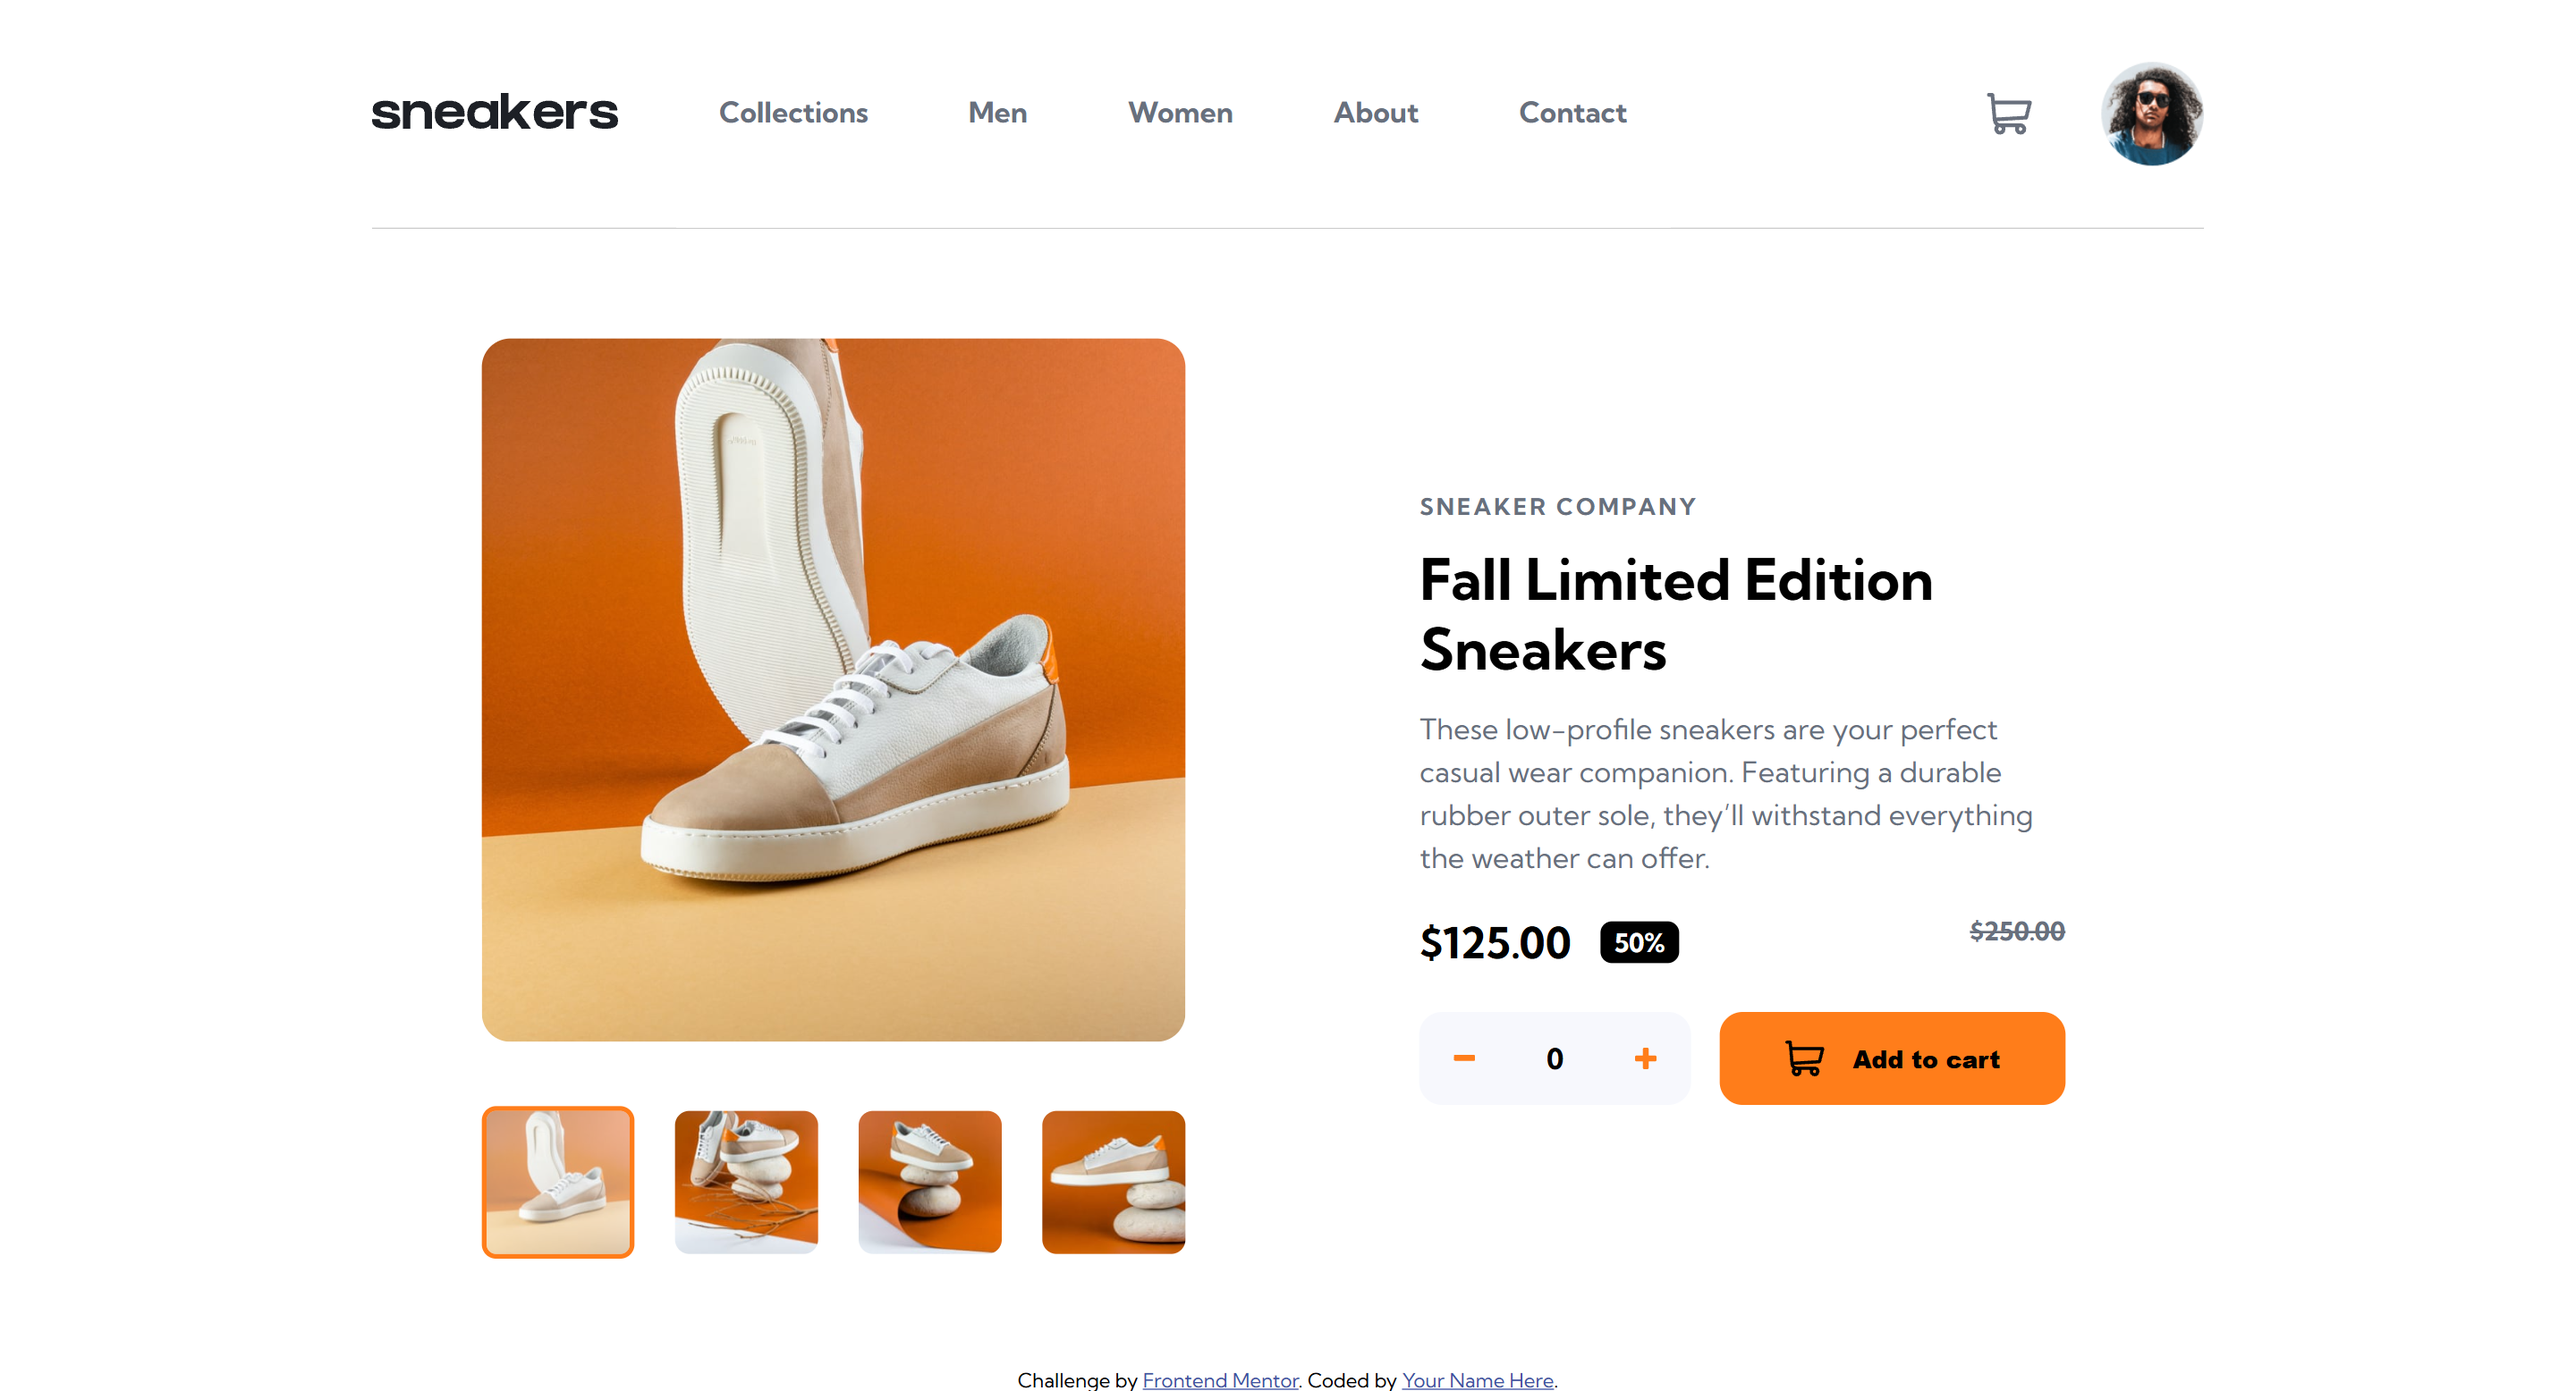
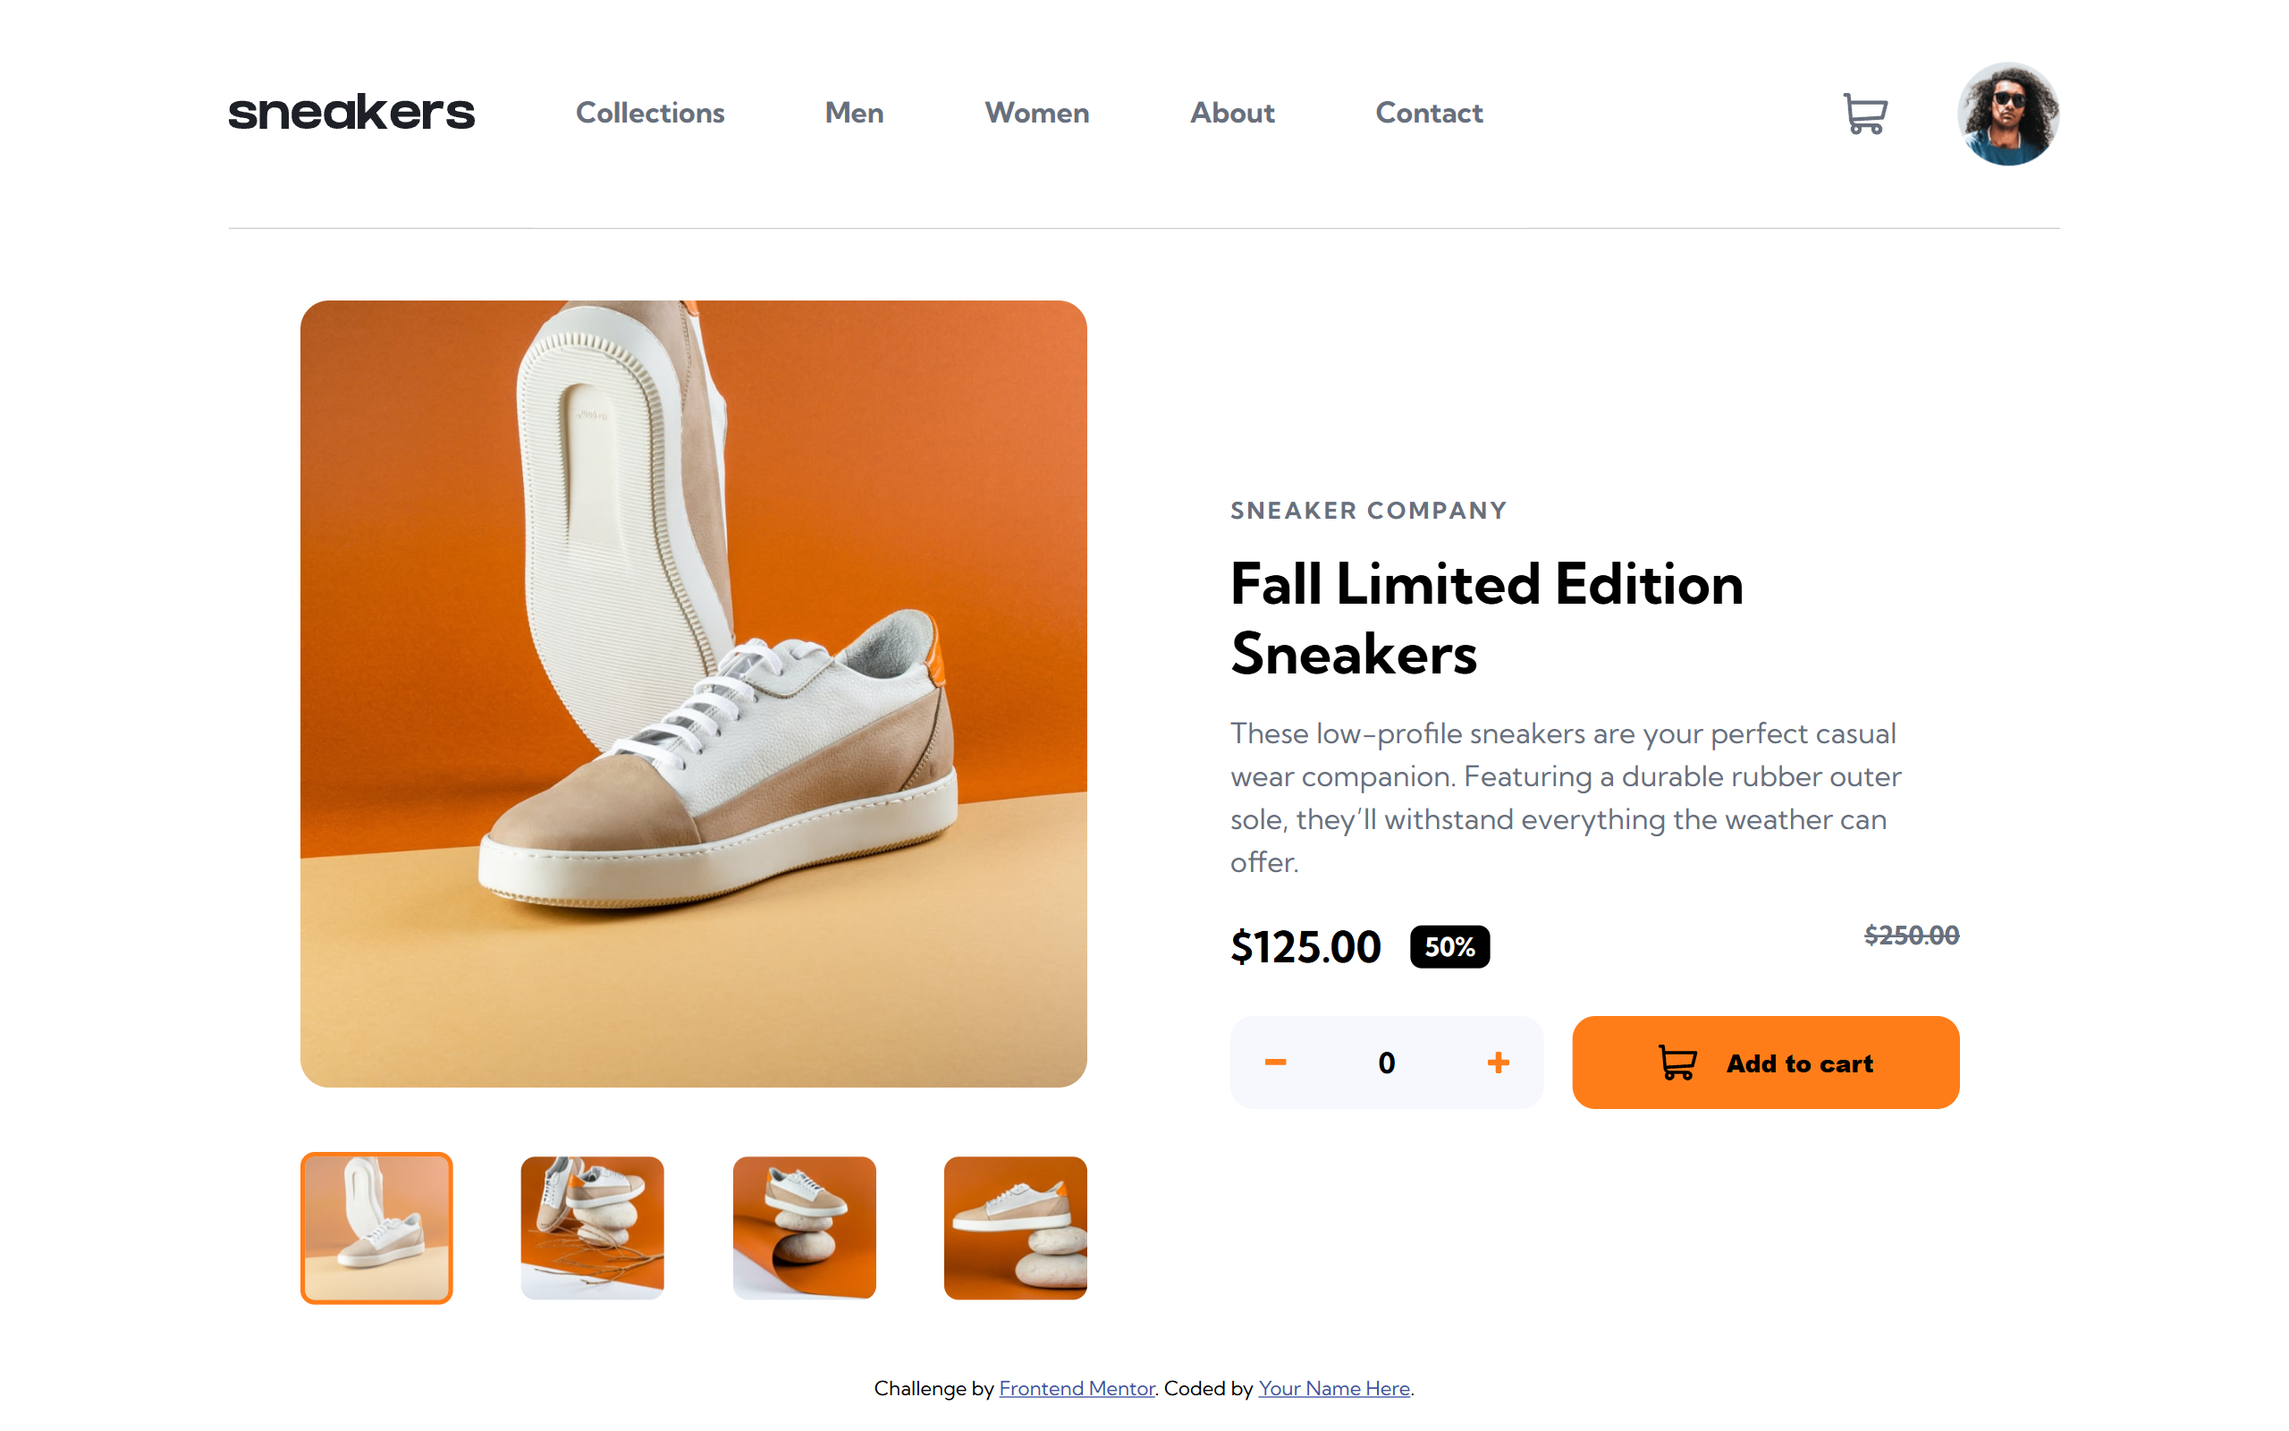
Update html, css, js, screenshot files

diff --git a/index.css b/index.css
@@ -7,7 +7,6 @@
 :root {
     /* ### Primary */
     --orange-color: hsl(26, 100%, 55%);
-    --orange-color: rgb(255, 125, 26);
     --pale-orange: hsl(25, 100%, 94%);
 
     /* ### Neutral */
@@ -16,8 +15,8 @@
     --grayish-blue: hsl(220, 14%, 75%);
     --light-grayish-blue: hsl(223, 64%, 98%);
     --white-color: hsl(0, 0%, 100%);
-    /* --Black-(with 75% opacity for lightbox background): hsl(0, 0%, 0%); */
     --black-color: hsl(0, 0%, 0%);
+    --overlay-bg: rgba(0, 0, 0, 0.5);
 }
 
 body {
@@ -62,7 +61,7 @@ header {
     bottom: 0;
     right: 0;
     z-index: 1001;
-    background-color: rgba(0, 0, 0, 0.5);
+    background-color: var(--overlay-bg);
     opacity: 0;
     visibility: hidden;
 }
@@ -307,20 +306,18 @@ button.checkout-btn {
     filter: brightness(0) saturate(100%) invert(55%) sepia(80%) saturate(2344%) hue-rotate(348deg) brightness(104%) contrast(101%);
 }
 
-.wrapper-slide .main-product, 
-.lightbox-slide .main-product{
+.main-product{
     cursor: pointer;
 }
 
-.wrapper-slide .main-product img, 
-.lightbox-slide .main-product img{
+.main-product img{
     width: 100%;
     object-fit: contain;
     object-position: center;
 }
 
-.wrapper-slide .slide-control,
-.lightbox-slide .lightbox-control {
+.slide-control,
+.lightbox-control {
     position: absolute;
     top: 50%;
     transform: translateY(-50%);
@@ -332,38 +329,38 @@ button.checkout-btn {
     border: none;
 }
 
-.wrapper-slide .slide-control {
+.slide-control {
     width: 2rem;
     height: 2rem;
 }
 
-.lightbox-slide .lightbox-control:hover img{
+.lightbox-control:hover img{
     filter: brightness(0) saturate(100%) invert(55%) sepia(80%) saturate(2344%) hue-rotate(348deg) brightness(104%) contrast(101%);
 }
 
-.lightbox-slide .lightbox-control {
+.lightbox-control {
     width: 3rem;
     height: 3rem;
 }
 
-.wrapper-slide .slide-control img {
+.slide-control img {
     width: 0.6rem;
     height: auto;
 }
 
-.wrapper-slide .slide-control.icon-prev {
+.slide-control.icon-prev {
     left: 1rem;
 }
 
-.lightbox-slide .lightbox-control.icon-prev {
+.lightbox-control.icon-prev {
     left: -1.5rem;
 }
 
-.wrapper-slide .slide-control.icon-next {
+.slide-control.icon-next {
     right: 1rem;
 }
 
-.lightbox-slide .lightbox-control.icon-next {
+.lightbox-control.icon-next {
     right: -1.5rem;
 }
 
@@ -381,8 +378,8 @@ button.checkout-btn {
     align-items: center;
 }
 
-.thumbnails .thumbnail-item,
-.lightbox-thumbnails .lightbox-thumbnail-item {
+.thumbnail-item,
+.lightbox-thumbnail-item {
     border-radius: 0.5rem;
     cursor: pointer;
     display: flex;
@@ -390,23 +387,23 @@ button.checkout-btn {
     background-color: white;
 }
 
-.thumbnails .thumbnail-item:hover,
-.lightbox-thumbnails .lightbox-thumbnail-item:hover {
+.thumbnail-item:hover,
+.lightbox-thumbnail-item:hover {
     opacity: 0.6;
 }
 
-.thumbnails .thumbnail-item.active img,
-.lightbox-thumbnails .lightbox-thumbnail-item.active img{
+.thumbnail-item.active img,
+.lightbox-thumbnail-item.active img{
     opacity: 0.6;
 }
 
-.thumbnails .thumbnail-item.active,
-.lightbox-thumbnails .lightbox-thumbnail-item.active {
+.thumbnail-item.active,
+.lightbox-thumbnail-item.active {
     border: 3px solid var(--orange-color);
 }
 
-.thumbnails .thumbnail-item img,
-.lightbox-thumbnails .lightbox-thumbnail-item img {
+.thumbnail-item img,
+.lightbox-thumbnail-item img {
     width: 4rem;
     height: auto;
 }
@@ -450,7 +447,7 @@ button.checkout-btn {
 }
 
 .new-price {
-    font-size: 1.5rem;
+    font-size: clamp(1.2rem, 2.5vw, 1.5rem);
     font-weight: 700;
 }
 
@@ -521,10 +518,6 @@ button.add-cart {
     display: none;
 }
 
-.show {
-    display: block;
-}
-
 .attribution { 
     font-size: 0.6875rem; text-align: center; 
 }
@@ -533,7 +526,7 @@ button.add-cart {
     color: hsl(228, 45%, 44%); 
 }
 
-@media (min-width: 1280px) {
+@media (min-width: 80rem) {
     .container {
         margin: auto;
         max-width: 64rem;
@@ -549,9 +542,9 @@ button.add-cart {
     .content {
         display: grid;
         grid-template-columns: 1fr 1fr;
-        gap: 8vw;
+        gap: clamp(2rem, 5vw, 8vw);
         align-items: center;
-        padding: 8vh;
+        padding: clamp(2rem, 5vh, 8vh);
     }
 
     .nav-content {
@@ -635,7 +628,7 @@ button.add-cart {
         display: block;
     }
     
-    .wrapper-slide .main-product img, .lightbox-slide .main-product img {
+    .main-product img {
         border-radius: 1rem;
     } 
 
@@ -647,12 +640,19 @@ button.add-cart {
         display: flex;
     }
 
-    .thumbnails .thumbnail-item img,
-    .lightbox-thumbnails .lightbox-thumbnail-item img {
+    .thumbnail-item img,
+    .lightbox-thumbnail-item img {
         width: 5rem;
     }
 
     .cart-content {
         grid-auto-flow: column;
     }
+}
+
+@media  (prefers-reduced-motion: reduce) {
+    .nav-section {
+        transition: unset;
+    }
+    
 }

diff --git a/index.html b/index.html
@@ -64,7 +64,7 @@
             Your cart is empty
           </div>
           <div class="wrapper-basket-item"></div>          
-          <button class="checkout-btn">Checkout</button>
+          <button type="button" class="checkout-btn">Checkout</button>
         </div>
       </div>
     </header>
@@ -72,13 +72,13 @@
       <div class="content">
         <div class="wrapper-picture">
           <div class="wrapper-slide">
-            <button class="slide-control icon-prev">
+            <button type="button" aria-label="Previous slide" class="slide-control icon-prev">
               <img src="./images/icon-previous.svg" alt="">
             </button>
             <div class="main-product">
               <img class="main-product-img" src="./images/image-product-1.jpg" alt="">
             </div>
-            <button class="slide-control icon-next">
+            <button type="button" aria-label="Next slide" class="slide-control icon-next">
               <img src="./images/icon-next.svg" alt="">
             </button>
           </div>
@@ -126,7 +126,7 @@
                 <span class="amount-result">0</span>
                 <div class="amount-cart-btn icon-plus"><img src="./images/icon-plus.svg" alt=""></div>
               </div>
-              <button class="add-cart">
+              <button type="button" class="add-cart">
                 <img src="./images/icon-cart.svg" alt="">
                 Add to cart
               </button>
@@ -136,38 +136,38 @@
       </div>
     </main>
   </div>
-          <div class="wrapper-lightbox">
-          <div class="lightbox-content">
-            <div class="lightbox-close-btn">
-              <img src="./images/icon-close.svg" alt="">
-            </div>
-            <div class="lightbox-slide">
-              <button class="lightbox-control icon-prev">
-                <img src="./images/icon-previous.svg" alt="">
-              </button>
-              <div class="lightbox-main-product main-product">
-                <img class="lightbox-main-product-img main-product-img" src="./images/image-product-1.jpg" alt="">
-              </div>
-              <button class="lightbox-control icon-next">
-                <img src="./images/icon-next.svg" alt="">
-              </button>
-            </div>
-            <div class="lightbox-thumbnails">
-              <div class="lightbox-thumbnail-item thumbnail-item active">
-                <img data-src="1" src="./images/image-product-1-thumbnail.jpg" alt="">
-              </div>
-              <div class="lightbox-thumbnail-item thumbnail-item">
-                <img data-src="2" src="./images/image-product-2-thumbnail.jpg" alt="">
-              </div>
-              <div class="lightbox-thumbnail-item thumbnail-item">
-                <img data-src="3" src="./images/image-product-3-thumbnail.jpg" alt="">
-              </div>
-              <div class="lightbox-thumbnail-item thumbnail-item">
-                <img data-src="4" src="./images/image-product-4-thumbnail.jpg" alt="">
-              </div>
-            </div>
-          </div>
+  <div class="wrapper-lightbox">
+    <div class="lightbox-content">
+      <div class="lightbox-close-btn">
+        <img src="./images/icon-close.svg" alt="">
+      </div>
+      <div class="lightbox-slide">
+        <button type="button" aria-label="Previous slide" class="lightbox-control icon-prev">
+          <img src="./images/icon-previous.svg" alt="">
+        </button>
+        <div class="lightbox-main-product main-product">
+          <img class="lightbox-main-product-img main-product-img" src="./images/image-product-1.jpg" alt="">
         </div>
+        <button type="button" aria-label="Next slide" class="lightbox-control icon-next">
+          <img src="./images/icon-next.svg" alt="">
+        </button>
+      </div>
+      <div class="lightbox-thumbnails">
+        <div class="lightbox-thumbnail-item thumbnail-item active">
+          <img data-src="1" src="./images/image-product-1-thumbnail.jpg" alt="">
+        </div>
+        <div class="lightbox-thumbnail-item thumbnail-item">
+          <img data-src="2" src="./images/image-product-2-thumbnail.jpg" alt="">
+        </div>
+        <div class="lightbox-thumbnail-item thumbnail-item">
+          <img data-src="3" src="./images/image-product-3-thumbnail.jpg" alt="">
+        </div>
+        <div class="lightbox-thumbnail-item thumbnail-item">
+          <img data-src="4" src="./images/image-product-4-thumbnail.jpg" alt="">
+        </div>
+      </div>
+    </div>
+  </div>
 
   <footer class="attribution">
     Challenge by <a href="https://www.frontendmentor.io?ref=challenge">Frontend Mentor</a>. 

diff --git a/index.js b/index.js
@@ -31,7 +31,7 @@ checkoutBtn.addEventListener('click', function () {
 addCartBtn.addEventListener('click', function () {
     const imgActive = document.querySelector('.thumbnail-item.active img');
     if (parseFloat(amountResult.innerHTML) >= 1) {
-        let basketItemData = {
+        const basketItemData = {
             indexItem: imgActive.getAttribute('data-src'),
             imageSrc: imgActive.getAttribute('src'),
             price: 125.00,
@@ -74,18 +74,18 @@ closeLightboxBtn.addEventListener('click', function () {
     wrapperLightbox.classList.remove('active')
 })
 
-minusBtn.addEventListener('click', function (e) {
+minusBtn.addEventListener('click', function () {
     decreaseNumberCart();
     amountResult.innerHTML = numberCart;
 })
 
-plusBtn.addEventListener('click', function (e) {
+plusBtn.addEventListener('click', function () {
     increaseNumberCart();
     amountResult.innerHTML = numberCart;
 })
 
 prevBtns.forEach(prev => {
-    prev.addEventListener('click', function (e) {
+    prev.addEventListener('click', function () {
         decreaseNumberImg();
         lightboxMainProductImg.setAttribute('src', `./images/image-product-${numberImg}.jpg`);
         mainProductImg.setAttribute('src', `./images/image-product-${numberImg}.jpg`);
@@ -94,7 +94,7 @@ prevBtns.forEach(prev => {
 })
 
 nextBtns.forEach(next => {
-    next.addEventListener('click', function (e) {
+    next.addEventListener('click', function () {
         increaseNumberImg();
         lightboxMainProductImg.setAttribute('src', `./images/image-product-${numberImg}.jpg`);
         mainProductImg.setAttribute('src', `./images/image-product-${numberImg}.jpg`);
@@ -102,22 +102,22 @@ nextBtns.forEach(next => {
     })
 })
 
-menuNavBtn.addEventListener('click', function (e) {
+menuNavBtn.addEventListener('click', function () {
     wrapperNav.classList.add('active');
 })
 
-closeMenuBtn.addEventListener('click', function (e) {
+closeMenuBtn.addEventListener('click', function () {
     wrapperNav.classList.remove('active');
 })
 
-wrapperNav.addEventListener('click', function (e) {
+wrapperNav.addEventListener('click', function () {
     if (e.target === wrapperNav) {
         wrapperNav.classList.remove('active');
     }
 })
 
 allThumbnailBtn.forEach(thumbnailBtn => {
-    thumbnailBtn.addEventListener('click', function (e) {
+    thumbnailBtn.addEventListener('click', function () {
         if (!this.classList.contains('active')) {
             const imgElement = this.querySelector('img');
             const dataIndex = imgElement.getAttribute('data-src'); 

diff --git a/README.md b/README.md
@@ -38,7 +38,7 @@ Users should be able to:
 ### Links
 
 - Solution URL: [Solution here](https://github.com/nqbinh98/ecommerce-product-page)
-- Live Site URL: [Live site](https://your-live-site-url.com)
+- Live Site URL: [Live site](https://nqbinh98.github.io/ecommerce-product-page/)
 
 ## My process
 
